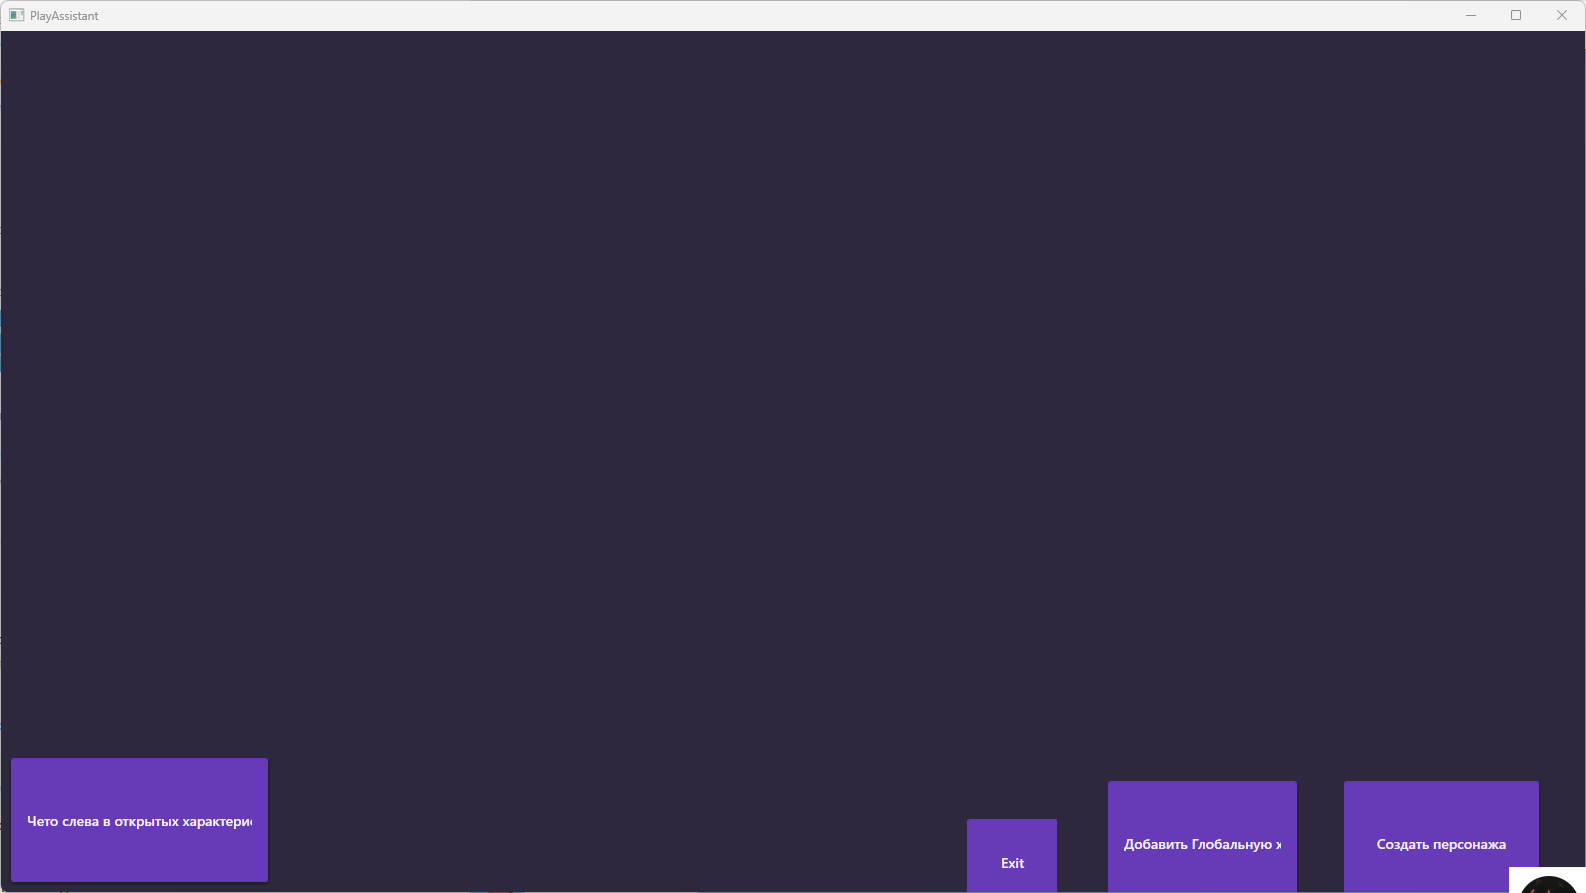
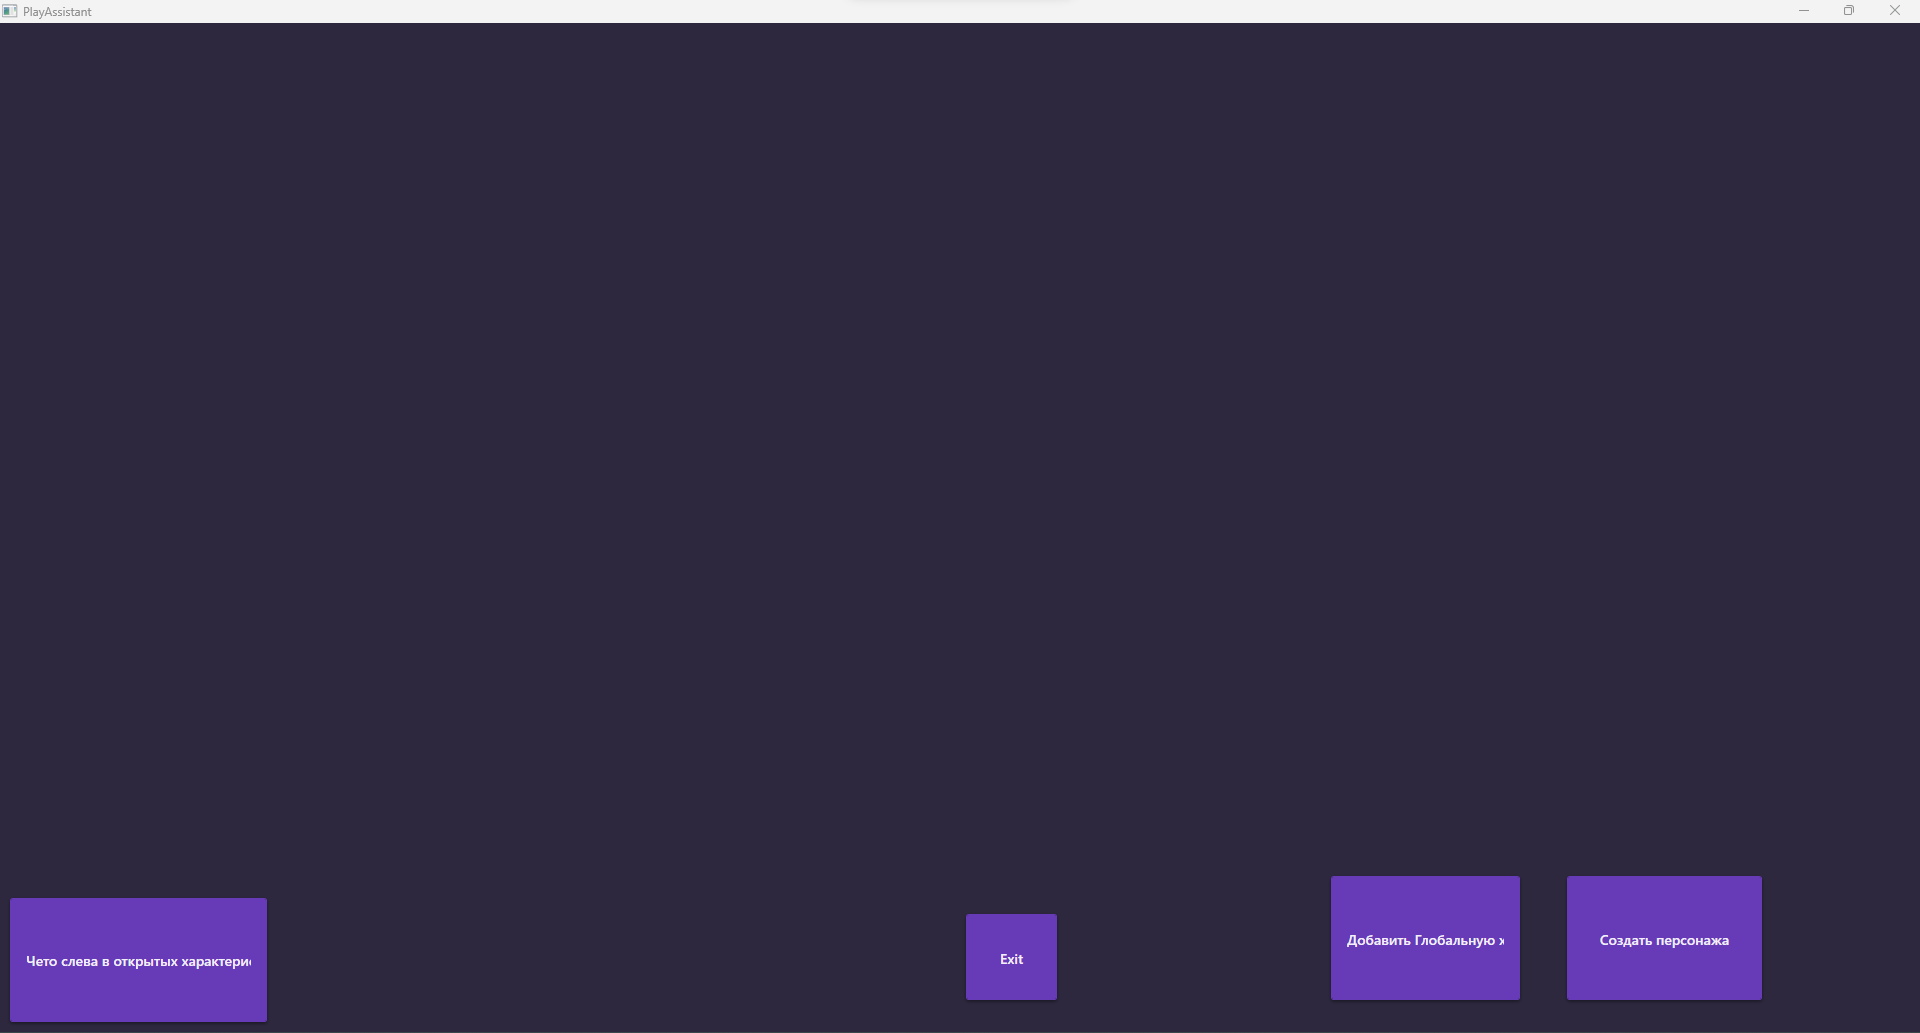
Дополнения к отчету.

Changed region(s): [[0.0, 0.8466, 1.0, 1.0], [0.0, 0.0, 1.0, 0.0605], [0.4943, 0.8768, 0.5561, 0.9675]]

diff --git a/PlayAssistant/Отчет/Отчет об ошибках.md b/PlayAssistant/Отчет/Отчет об ошибках.md
@@ -9,4 +9,11 @@
    окошко, когда вокруг него столько свободного пространства
    ![Узкая панель ListOfUserControls](Узкая%20панель.png)
 4. Поменяйте текст кнопке слева внизу (скрин выше). Иначе на презентации будет очень забавный момент.
-5. 
+5. Висящие в воздухе кнопки, у которых к тому же отступы и размеры различаются, сильно сбивают с толку. Наладьте это и
+   попробуйте добавить полосы или что-то еще, что как-то разделило бы интерфейс на логические составляющие. Обратите
+   внимание, что на одной из кнопок текст не помещается. Тоже советую поправить.
+   ![Непонятный интерфейс в MainWindow](Отступы%20в%20MainWindow.png)
+6. Опять же, сделайте панельку пошире.
+   ![Сделайте панель создания характеристики пошире](Сделайте%20панель%20шире.png)
+7. Не сразу понятно, что эта штуковина является таймером. Попробуйте разделить цифры двоеточиями, создав под них отдельную колонку в Grid. Это так же разграничит кнопки, что выглядело бы получше (субъективно).
+   ![Таймер не похож на таймер](Непонятный%20таймер.png)
